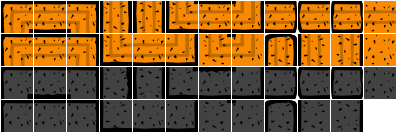
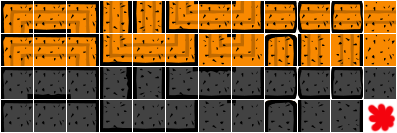
added fade for background and hazars

Changed region(s): [[0.9068, 0.782, 0.9975, 0.9925]]

diff --git a/TestBox2d/src/GameField.js b/TestBox2d/src/GameField.js
@@ -55,7 +55,7 @@ cc.Player = cc.Sprite.extend({
         }
     
         var minMovement = cc.PointMake(-120.0, -450.0);
-        var maxMovement = cc.PointMake(120.0, 250.0);
+        var maxMovement = cc.PointMake(120.0, 260.0);
         this.velocity = cc.pClamp(this.velocity, minMovement, maxMovement);
     
         this.velocity = cc.pAdd(this.velocity, gravityStep);
@@ -194,6 +194,8 @@ var GameField = cc.Layer.extend(
     gameOver:null,
     hideMode:true,
     back:null,
+    elementsCount:0,
+    hidedCount:0,
 
     ctor:function () {
         //cc.associateWithNative( this, cc.Layer );
@@ -204,6 +206,7 @@ var GameField = cc.Layer.extend(
         var bRet = false;
         gameOver = false;
         hideMode = true;
+        hidedCount = 0;
 
         if (this._super) 
         {
@@ -233,6 +236,7 @@ var GameField = cc.Layer.extend(
             this.walls = this.map.getLayer("walls");
             this.walls2 = this.map.getLayer("walls2");
             this.hazards = this.map.getLayer("hazards");
+            elementsCount = this.walls2._children.length;
 
             // accept touch now!
             this.setTouchEnabled(true);
@@ -467,11 +471,12 @@ var GameField = cc.Layer.extend(
 
     handleHazardCollisions:function (p) {
         var tiles = this.getSurroundingTilesAtPosition(p.getPosition(), this.hazards);
-        for (var dic in tiles) {
+        for (var i = 0; i < tiles.length; i++) {
+            var dic = tiles[i];
             var tileRect = cc.RectMake(parseFloat(dic["x"]), parseFloat(dic["y"]), this.map.getTileSize().width, this.map.getTileSize().height);
             var pRect = p.collisionBoundingBox();
         
-            if (parseInt(dic["gid"]) && cc.RectIntersectsRect(pRect, tileRect)) {
+            if (parseInt(dic["gid"]) && cc.rectIntersectsRect(pRect, tileRect)) {
                 this.gameOver(0);
             }
         }
@@ -509,7 +514,10 @@ var GameField = cc.Layer.extend(
 
     hideColorForTile:function (position) {
         if(hideMode) {
-            this.walls2.hideTileAt(position);
+            if(this.walls2.hideTileAt(position)) {
+                ++hidedCount;
+                this.back.setOpacity(255 * (1 - hidedCount / elementsCount));
+            }
         }
         else {
             this.walls2.showTileAt(position);

diff --git a/cocos2d/tileMap_parallax_nodes/CCTMXLayer.js b/cocos2d/tileMap_parallax_nodes/CCTMXLayer.js
@@ -333,8 +333,10 @@ cc.TMXLayer = cc.SpriteBatchNode.extend(/** @lends cc.TMXLayer# */{
                 var removeAction = cc.FadeOut.create(1.0);
                 tile.setTag(123);
                 tile.runAction(removeAction);
+                return true;
             }
         }
+        return false;
     },
 
     showTileAt:function (pos) {
@@ -354,8 +356,10 @@ cc.TMXLayer = cc.SpriteBatchNode.extend(/** @lends cc.TMXLayer# */{
                 var removeAction = cc.FadeIn.create(1.0);
                 tile.setTag(124);
                 tile.runAction(removeAction);
+                return true;
             }
         }
+        return false;
     },
 
     /**
